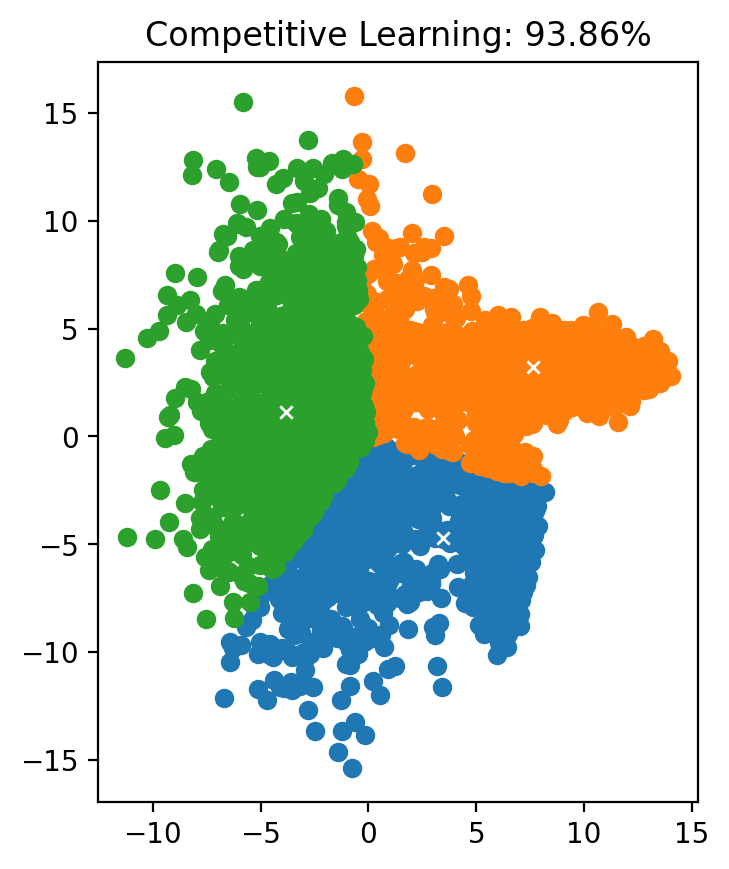
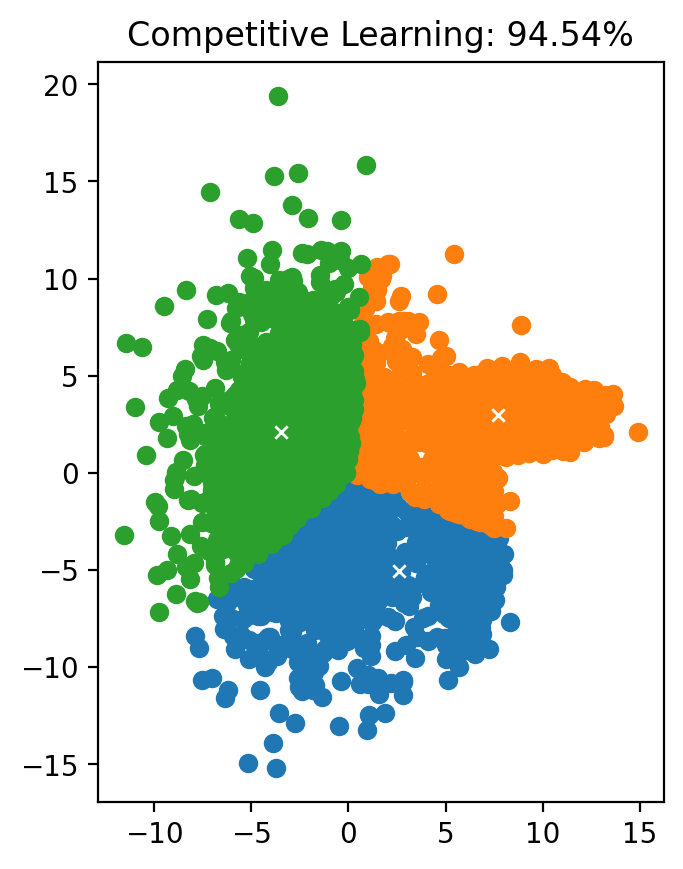
figure updated

diff --git a/tests/test_cluster2.py b/tests/test_cluster2.py
@@ -28,7 +28,7 @@ args = [np.vstack(X), len(X)]
 # K-means
 km = ml.cluster.k_means(*args, plot=False)
 # Competitive Learning
-cl = ml.cluster.competitive_net(*args, max_epoch=10)
+cl = ml.cluster.competitive_net(*args, max_epoch=30)
 # EM algorithm
 em = ml.cluster.em(*args, least_improve=1e-3)
 
